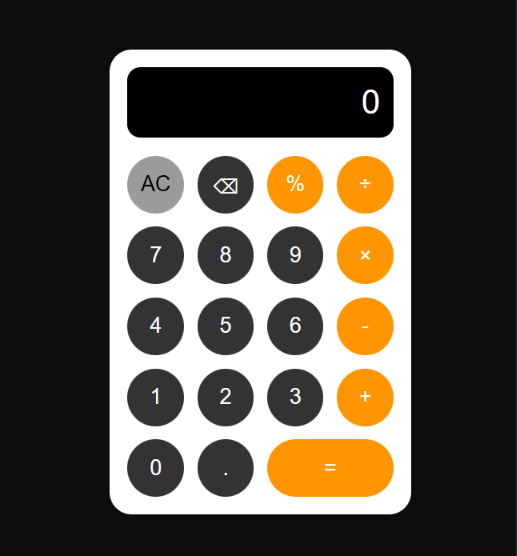
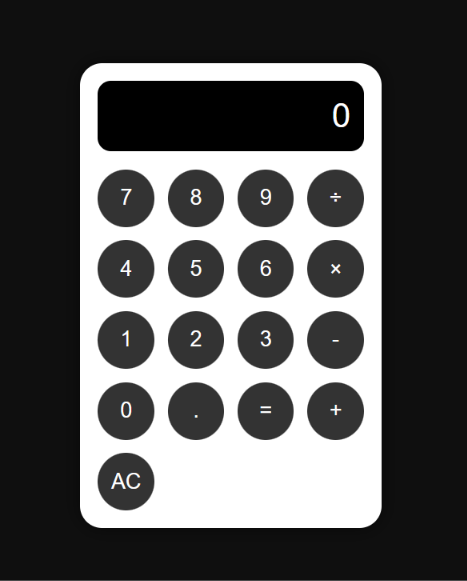
Updated project screenshot

Changed region(s): [[0.1499, 0.0612, 0.8394, 0.9478], [0.9893, 0.0, 1.0, 1.0]]

diff --git a/src/components/Calculator.js b/src/components/Calculator.js
@@ -1,123 +1,45 @@
-import React, { useState, useEffect } from "react";
+import React, { useState } from "react";
 import "./Calculator.css";
 
-const Calculator = () => {
-  const [result, setResult] = useState("");
+function Calculator() {
+  const [value, setValue] = useState("0");
 
-  const handleClick = (value) => {
-    if (value === "=") {
+  const press = (btn) => {
+    if (btn === "AC") {
+      setValue("0");
+    } else if (btn === "=") {
       try {
-        const expression = result
-          .replace(/×/g, "*")
-          .replace(/÷/g, "/");
-
-        setResult(eval(expression).toString());
+        setValue(eval(value).toString());
       } catch {
-        setResult("Error");
-      }
-    } else if (value === "AC") {
-      setResult("");
-    } else if (value === "⌫") {
-      setResult(result.slice(0, -1));
-    } else if (value === "%") {
-      try {
-        setResult((parseFloat(result) / 100).toString());
-      } catch {
-        setResult("Error");
+        setValue("Error");
       }
     } else {
-      setResult(result + value);
+      if (value === "0") {
+        setValue(btn);
+      } else {
+        setValue(value + btn);
+      }
     }
   };
 
-  useEffect(() => {
-    const keyboard = (e) => {
-      const key = e.key;
-
-      if ("0123456789+-*/.%".includes(key)) {
-        setResult((prev) => prev + key);
-      }
-
-      if (key === "Enter") {
-        try {
-          setResult(eval(result).toString());
-        } catch {
-          setResult("Error");
-        }
-      }
-
-      if (key === "Backspace") {
-        setResult((prev) => prev.slice(0, -1));
-      }
-
-      if (key === "Escape") {
-        setResult("");
-      }
-    };
-
-    window.addEventListener("keydown", keyboard);
-
-    return () => window.removeEventListener("keydown", keyboard);
-  }, [result]);
-
-  const buttons = [
-    "AC",
-    "⌫",
-    "%",
-    "÷",
-    "7",
-    "8",
-    "9",
-    "×",
-    "4",
-    "5",
-    "6",
-    "-",
-    "1",
-    "2",
-    "3",
-    "+",
-    "0",
-    ".",
-    "=",
-  ];
-
   return (
     <div className="calculator">
-
-      <input
-        type="text"
-        value={result}
-        readOnly
-        className="display"
-      />
+      <input className="display" value={value} readOnly />
 
       <div className="buttons">
-
-        {buttons.map((btn, index) => (
-
-          <button
-            key={index}
-            onClick={() => handleClick(btn)}
-            className={
-              btn === "="
-                ? "equal"
-                : ["+", "-", "×", "÷", "%"].includes(btn)
-                ? "operator"
-                : btn === "AC"
-                ? "clear"
-                : ""
-            }
-          >
-            {btn}
+        {[
+          "7","8","9","/",
+          "4","5","6","*",
+          "1","2","3","-",
+          "0",".","=","+","AC"
+        ].map((btn) => (
+          <button key={btn} onClick={() => press(btn)}>
+            {btn === "*" ? "×" : btn === "/" ? "÷" : btn}
           </button>
-
         ))}
-
       </div>
-
     </div>
   );
-};
+}
 
 export default Calculator;